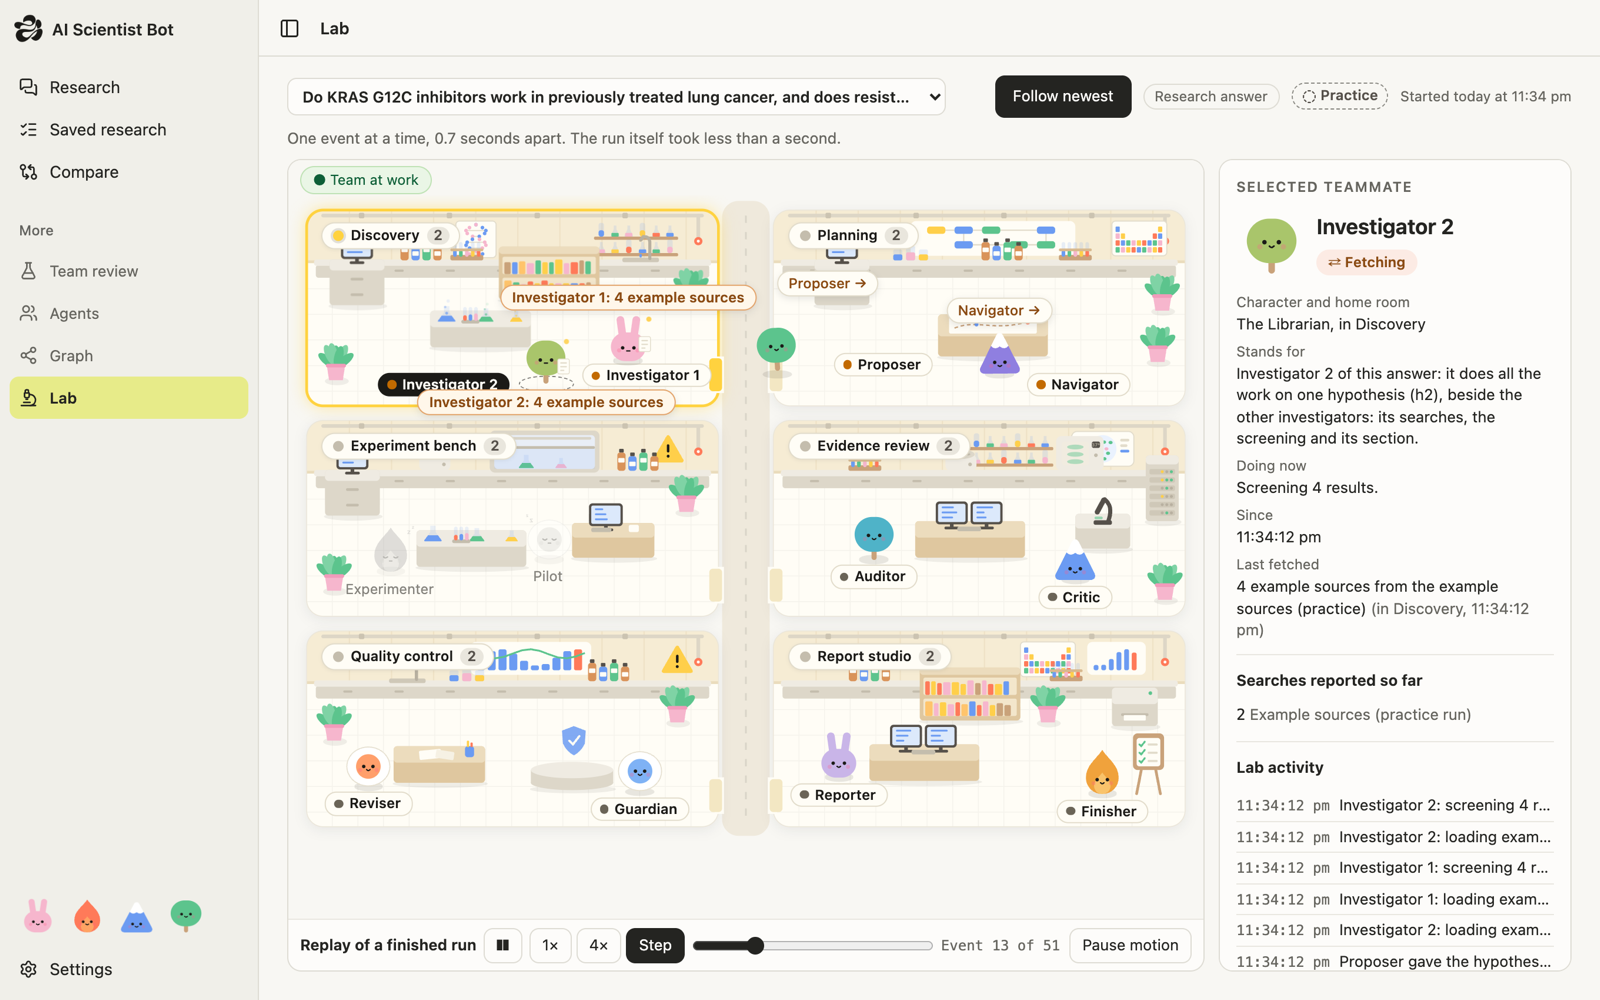
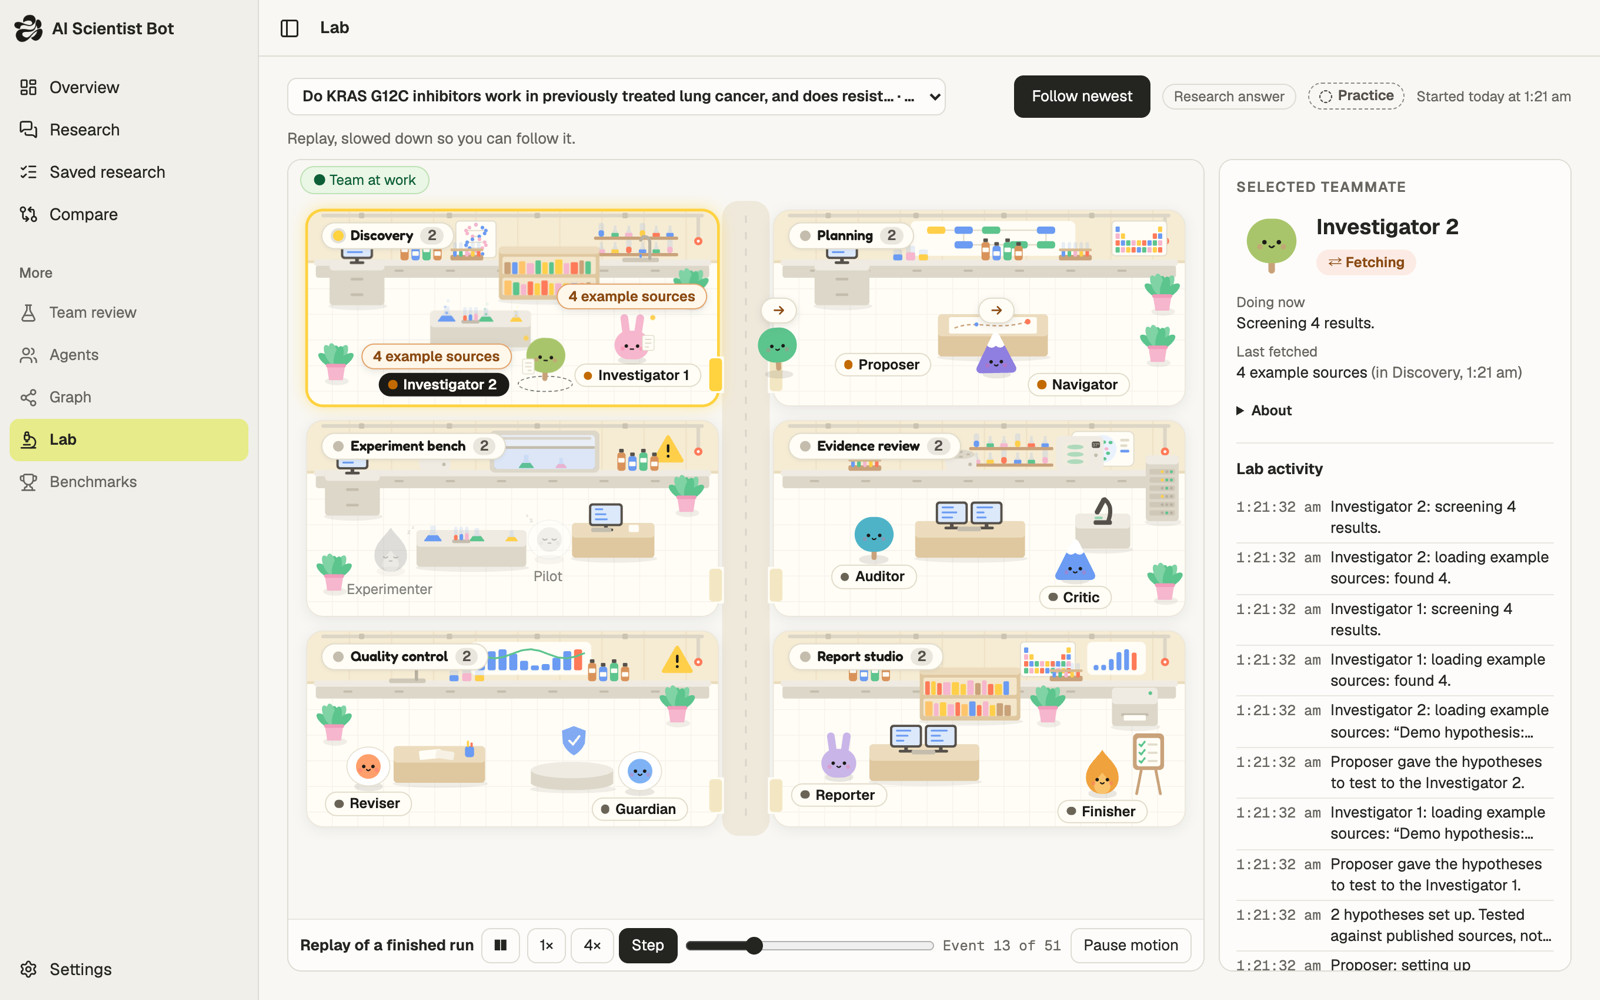
README: the Overview and Benchmarks screens, new screenshots, the 82-question open-model result with its caveats

diff --git a/README.md b/README.md
@@ -88,6 +88,7 @@ anything is spent.
 
 | Screen | What it is for |
 |---|---|
+| Overview | The first screen: how much has been run, how much of it is research, and a chart per day. |
 | Research | The chat. Ask a question and read the answer with its sources and its hypotheses. |
 | Saved research | Everything that was run before. You can search it and open any result. |
 | Compare | A team of nine agents against one agent alone, on the same task. |
@@ -95,10 +96,16 @@ anything is spent.
 | Agents | The agents and what each one does. |
 | Graph | One run as a picture of who said what. |
 | Lab | The agents as characters in a lab. They walk only when the engine reports real work. |
+| Benchmarks | Our benchmark results set out as an evaluation: model, accuracy with its interval, tokens, time and cost, beside the record to beat. |
 | Settings | Demo or Real, spending limits, how it works. |
 
 The pictures below are from **Demo mode**. Every one shows a practice run: fixed example text,
 not research. The app labels such runs "Practice" itself.
+
+**Overview.** Practice runs are counted apart from research, so the big number is only what real
+models produced.
+
+![The Overview screen: totals, runs per day and the latest runs](docs/images/overview.png)
 
 **Research.** You ask; the answer is split into hypotheses, each with the sources for and against
 it.
@@ -113,6 +120,11 @@ it.
 The lab's look is by Anh Lam.
 
 ![The Lab screen: six rooms with the agents as characters, and a side panel for the selected one](docs/images/lab.png)
+
+**Benchmarks.** These numbers are real runs, read from the run records. Where something was not
+measured the screen says "Not known".
+
+![The Benchmarks screen: the record to beat, and one agent against the team of nine with accuracy, tokens, time and cost](docs/images/benchmarks.png)
 
 ## Where things stand
 
@@ -160,6 +172,9 @@ A first report, in words. Charts and a fuller scope come later.
 |---|---|---|
 | BixBench3 | No real task yet. | No score. We cannot compare with 0.523. |
 | BixBench v1.5 | A pilot: 3 datasets, 8 questions, `anthropic/claude-sonnet-5-5`. | One agent: 4 of 8 correct, 317,110 tokens. Swarm: 4 of 8 correct, 532,394 tokens (about 1.7 times). |
+| BixBench v1.5 | 20 datasets, 82 questions, an open model (Qwen3.6 35B) served on Modal, same token limit for both. | One agent: 15 of 82. Swarm: 19 of 82. No difference detected (exact p = 0.29). 42 of the 82 answers were not graded, because no judge model was used; they count as wrong, so both scores are lower bounds. |
+
+The Benchmarks screen in the app shows these rows with their intervals, tokens and time.
 
 Eight questions are far too few to tell the two apart. The pilot also used an older swarm; it
 has changed since, and the changes were tested with a scripted model only, not a real one. We
